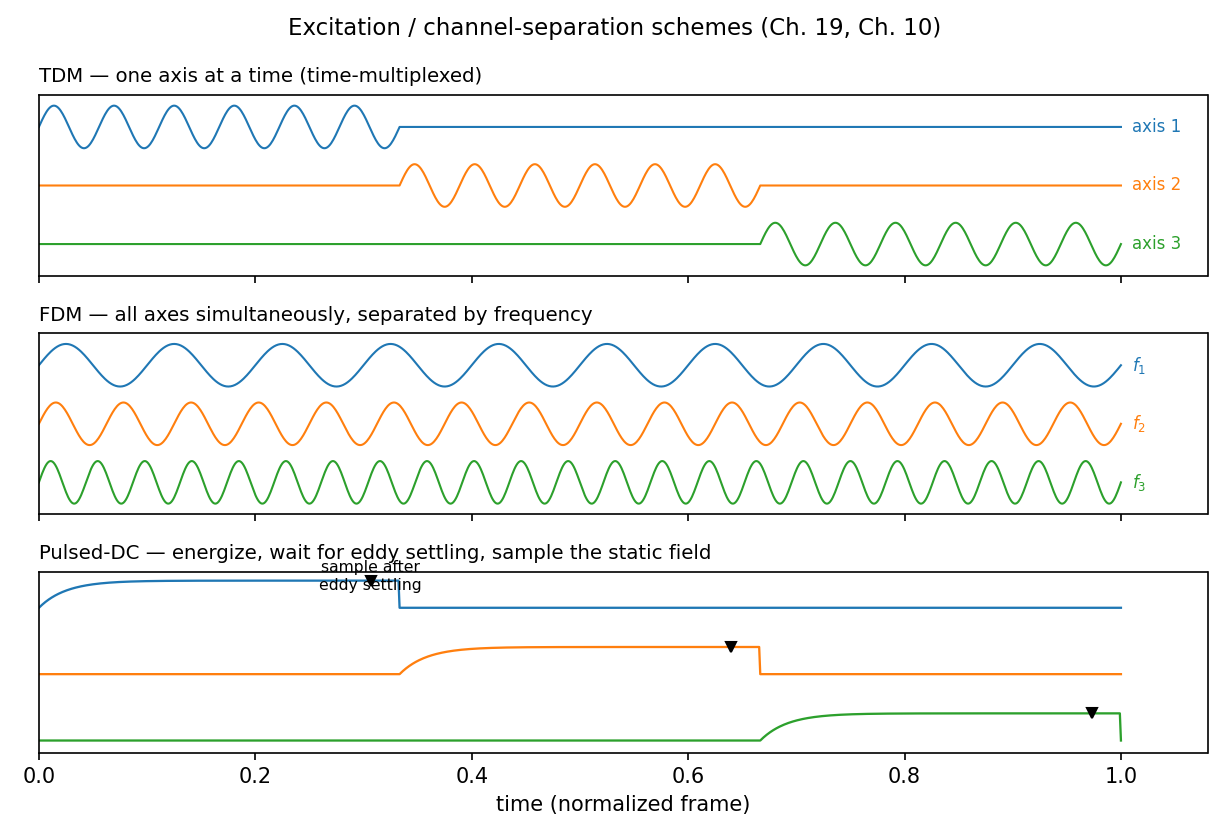
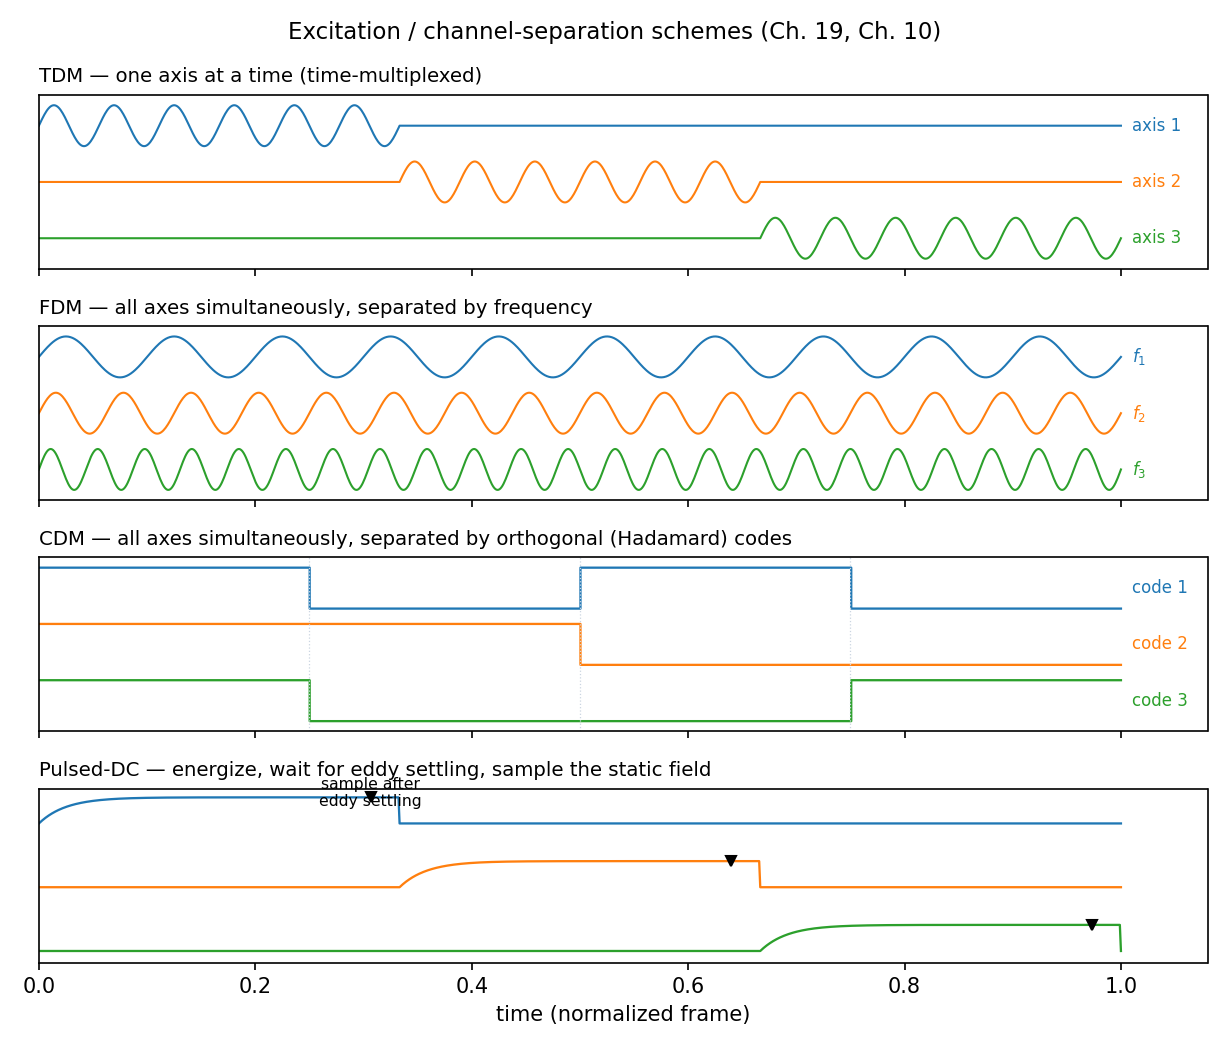
Figure 19: add the missing CDM panel (TDM/FDM/CDM/pulsed-DC)
The excitation/channel-separation schematic showed TDM, FDM, and pulsed-DC but
omitted CDM - yet Ch. 19 frames 'three classical multiplexing schemes -
frequency, time, and code division' (§19.1) and develops CDM in full (§19.4,
Walsh-Hadamard). The figure was inconsistent with the chapter.

- make_diagrams.py: add a 4th panel for CDM - three channels driven
  simultaneously by orthogonal Walsh-Hadamard ±1 code sequences (rows of H4),
  with chip-boundary guides; distinct from TDM (sequential) and FDM (tones).
- Ch. 19 prose fix: the three constructions satisfying (19.2) are TDM, FDM, and
  CDM (not pulsed-DC, which is a separate excitation mode, Ch. 6 §6.4) - the
  earlier figure-ref sentence mislabeled them; corrected.
- gallery caption updated to list all four panels.

Verifier PASS (57 ch); build clean; figure renders inline in Ch. 19.

https://claude.ai/code/session_016CjrVW1psuy7XncFVZptyT

Changed region(s): [[0.0309, 0.0, 0.9886, 0.8357], [0.0, 0.8357, 0.9886, 0.9905], [0.7415, 0.031, 0.7724, 0.0619]]

diff --git a/dashboard/src/lib/simdata.ts b/dashboard/src/lib/simdata.ts
@@ -134,7 +134,7 @@ export const FIGURES: FigureMeta[] = [
     title: 'Excitation / channel-separation schemes (schematic)',
     chapter: 'Ch. 19',
     chapterSlug: 'part-07-dsp/19-excitation-channel-separation',
-    caption: 'Schematic waveforms: TDM (one axis at a time), FDM (simultaneous tones), and pulsed-DC (energize, wait for eddy settling, sample).',
+    caption: 'Schematic waveforms: TDM (one axis at a time), FDM (simultaneous tones), CDM (simultaneous, orthogonal Hadamard codes), and pulsed-DC (energize, wait for eddy settling, sample).',
   },
   {
     file: 'ch24_hemisphere_ambiguity.png',

diff --git a/simulations/make_diagrams.py b/simulations/make_diagrams.py
@@ -194,11 +194,11 @@ def diagram_distortion_mechanism() -> None:
 
 
 # ---------------------------------------------------------------------------
-# Fig D — excitation/multiplexing schemes: TDM / FDM / pulsed-DC (Ch. 19, Ch. 10)
+# Fig D — excitation/multiplexing schemes: TDM / FDM / CDM / pulsed-DC (Ch. 19, Ch. 10)
 # ---------------------------------------------------------------------------
 def diagram_excitation_schemes() -> None:
     t = np.linspace(0, 1, 1000)
-    fig, axs = plt.subplots(3, 1, figsize=(8.2, 5.6), sharex=True)
+    fig, axs = plt.subplots(4, 1, figsize=(8.2, 7.0), sharex=True)
 
     # TDM: three axes active in sequence
     ax = axs[0]
@@ -218,8 +218,23 @@ def diagram_excitation_schemes() -> None:
     ax.set_title("FDM — all axes simultaneously, separated by frequency", fontsize=9.5, loc="left")
     ax.set_ylim(-1.2, 5.6)
 
-    # pulsed-DC: step then settle, sample after eddy decay
+    # CDM: all axes simultaneously, separated by orthogonal Walsh-Hadamard codes
     ax = axs[2]
+    H = np.array([[1, 1, 1, 1], [1, -1, 1, -1], [1, 1, -1, -1], [1, -1, -1, 1]])
+    codes = H[1:4]  # three non-trivial Hadamard rows -> three channels
+    nchip = codes.shape[1]
+    for i, code in enumerate(codes):
+        chip = np.clip((t * nchip).astype(int), 0, nchip - 1)
+        ax.step(t, code[chip] * 0.8 + (2 - i) * 2.2, where="post", lw=1.1, color=f"C{i}")
+        ax.text(1.01, (2 - i) * 2.2, f"code {i+1}", va="center", fontsize=8, color=f"C{i}")
+    for k in range(1, nchip):
+        ax.axvline(k / nchip, color="#cbd5e1", lw=0.6, ls=":")
+    ax.set_title("CDM — all axes simultaneously, separated by orthogonal (Hadamard) codes",
+                 fontsize=9.5, loc="left")
+    ax.set_ylim(-1.2, 5.6)
+
+    # pulsed-DC: step then settle, sample after eddy decay
+    ax = axs[3]
     for i in range(3):
         base = (2 - i) * 2.2
         seg = (t >= i / 3) & (t < (i + 1) / 3)

diff --git a/book/part-07-dsp/19-excitation-channel-separation.md b/book/part-07-dsp/19-excitation-channel-separation.md
@@ -46,8 +46,9 @@ $$
 $$
 
 i.e. the demodulator $g_k$ responds only to channel $k$. The three schemes are
-three constructions of $\{I_i, g_i\}$ satisfying (19.2) — TDM, FDM, and pulsed-DC
-(waveform schematic: `figures/ch19_excitation_schemes.png`); they differ entirely in
+three constructions of $\{I_i, g_i\}$ satisfying (19.2) — **TDM, FDM, and CDM**
+(waveform schematic: `figures/ch19_excitation_schemes.png`, which also contrasts the
+distinct pulsed-DC excitation mode, Ch. 6 §6.4); they differ entirely in
 *how* the orthogonality is realized and in *how it breaks* under non-ideal
 hardware (§§19.2–19.4). The proportionality constant $\kappa_i$ (which depends on
 drive amplitude and, for AC, on frequency) is absorbed by calibration (Ch. 26),